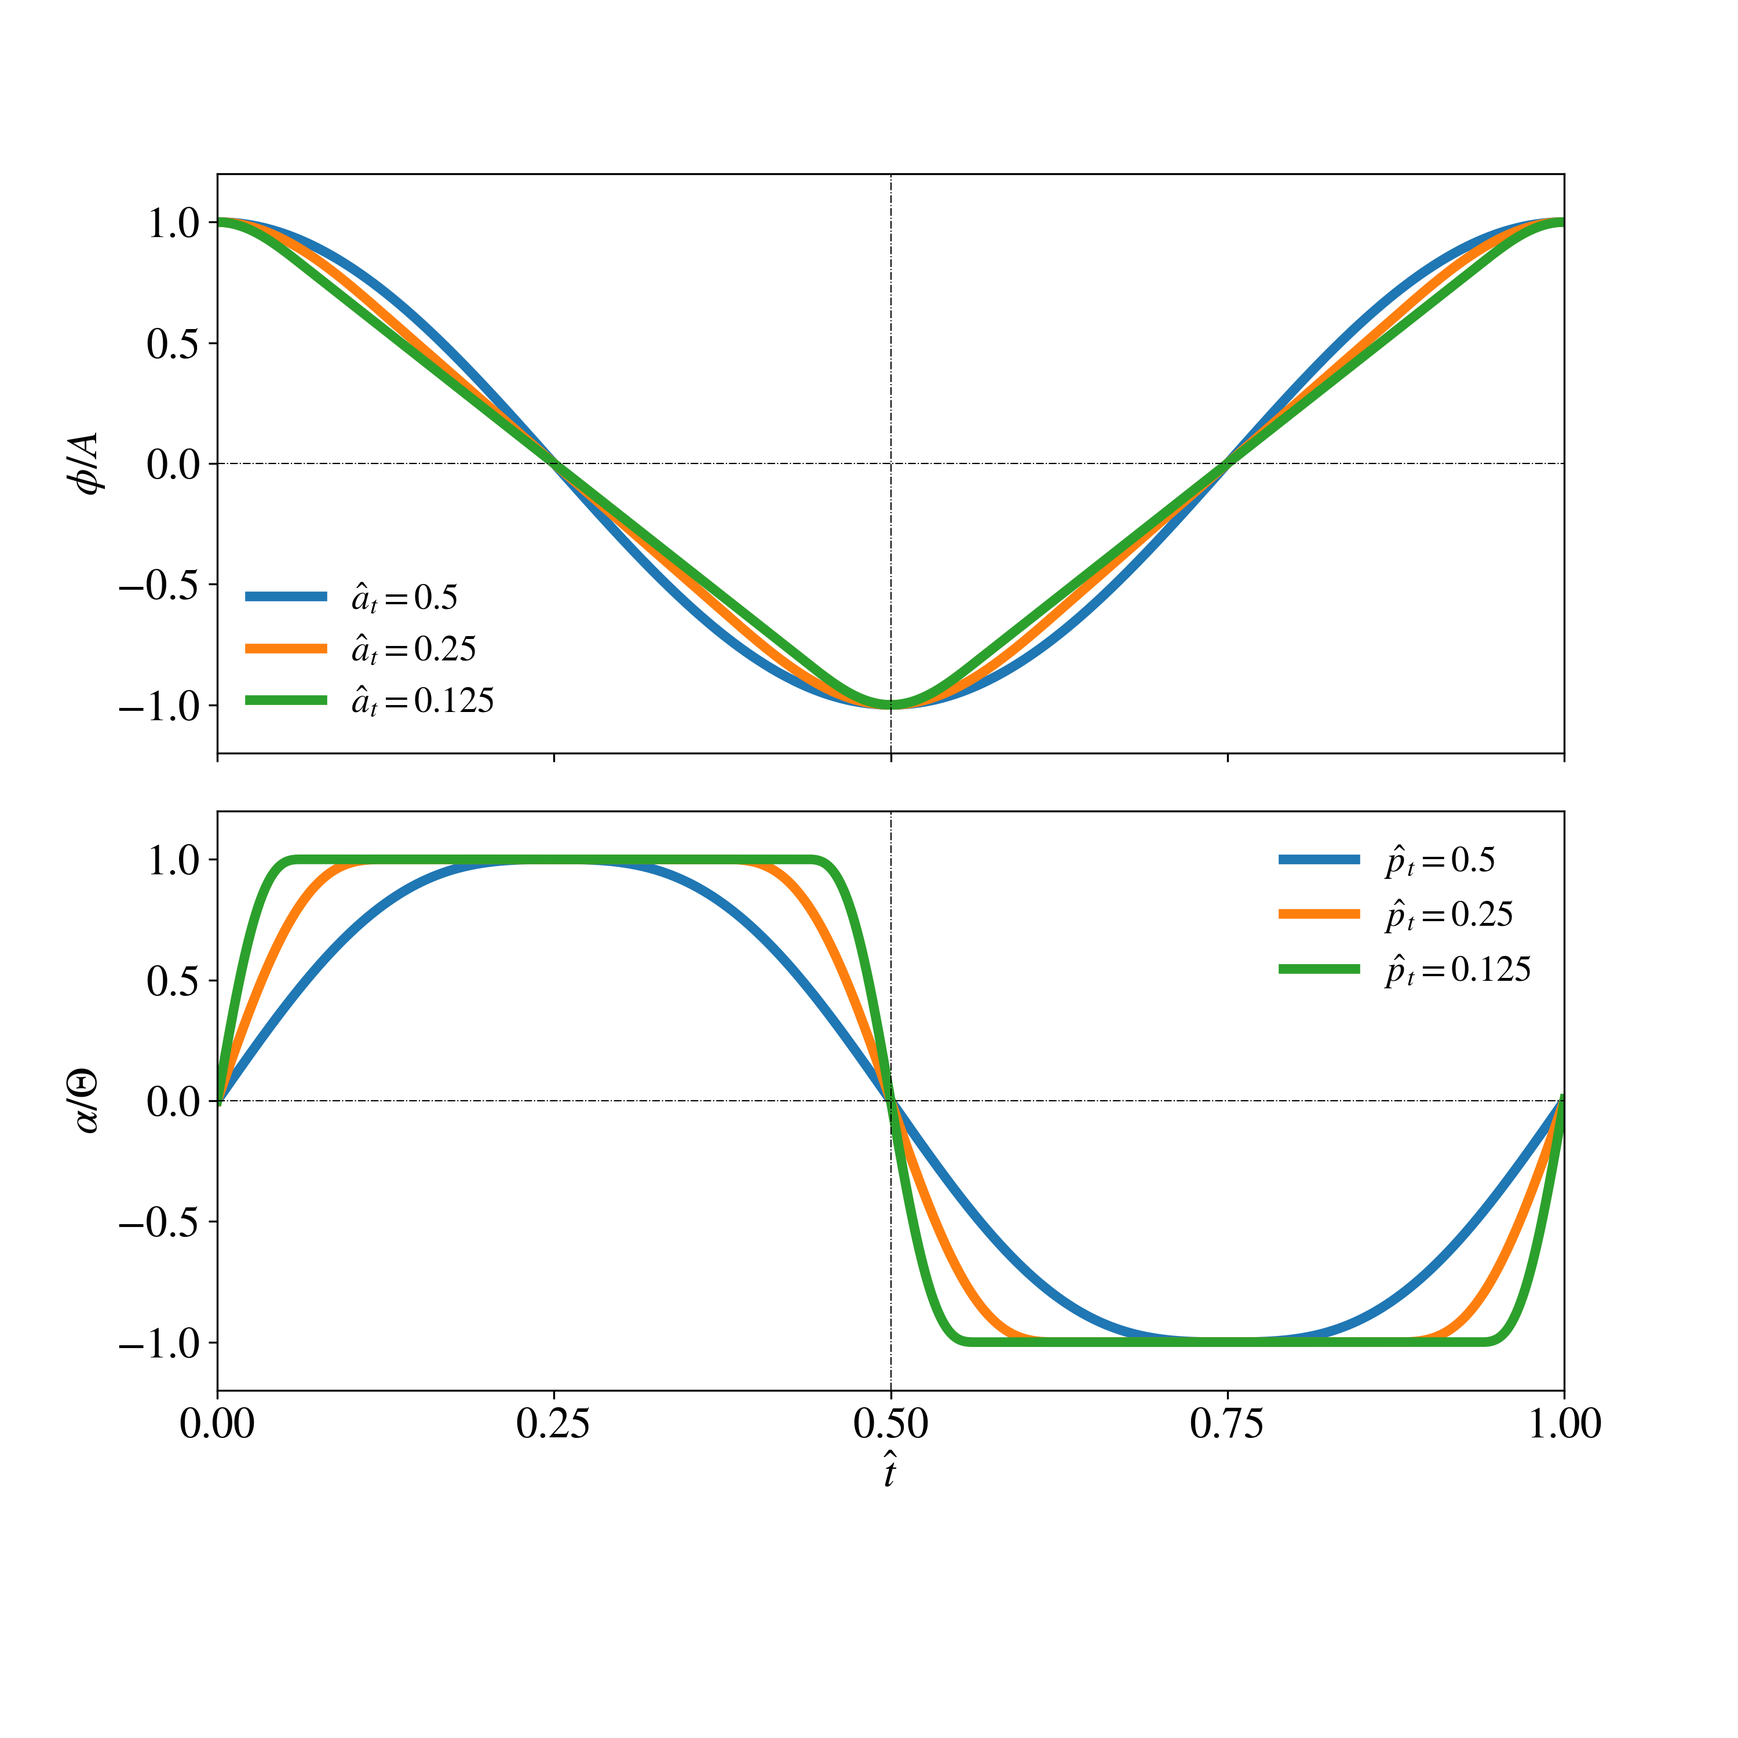
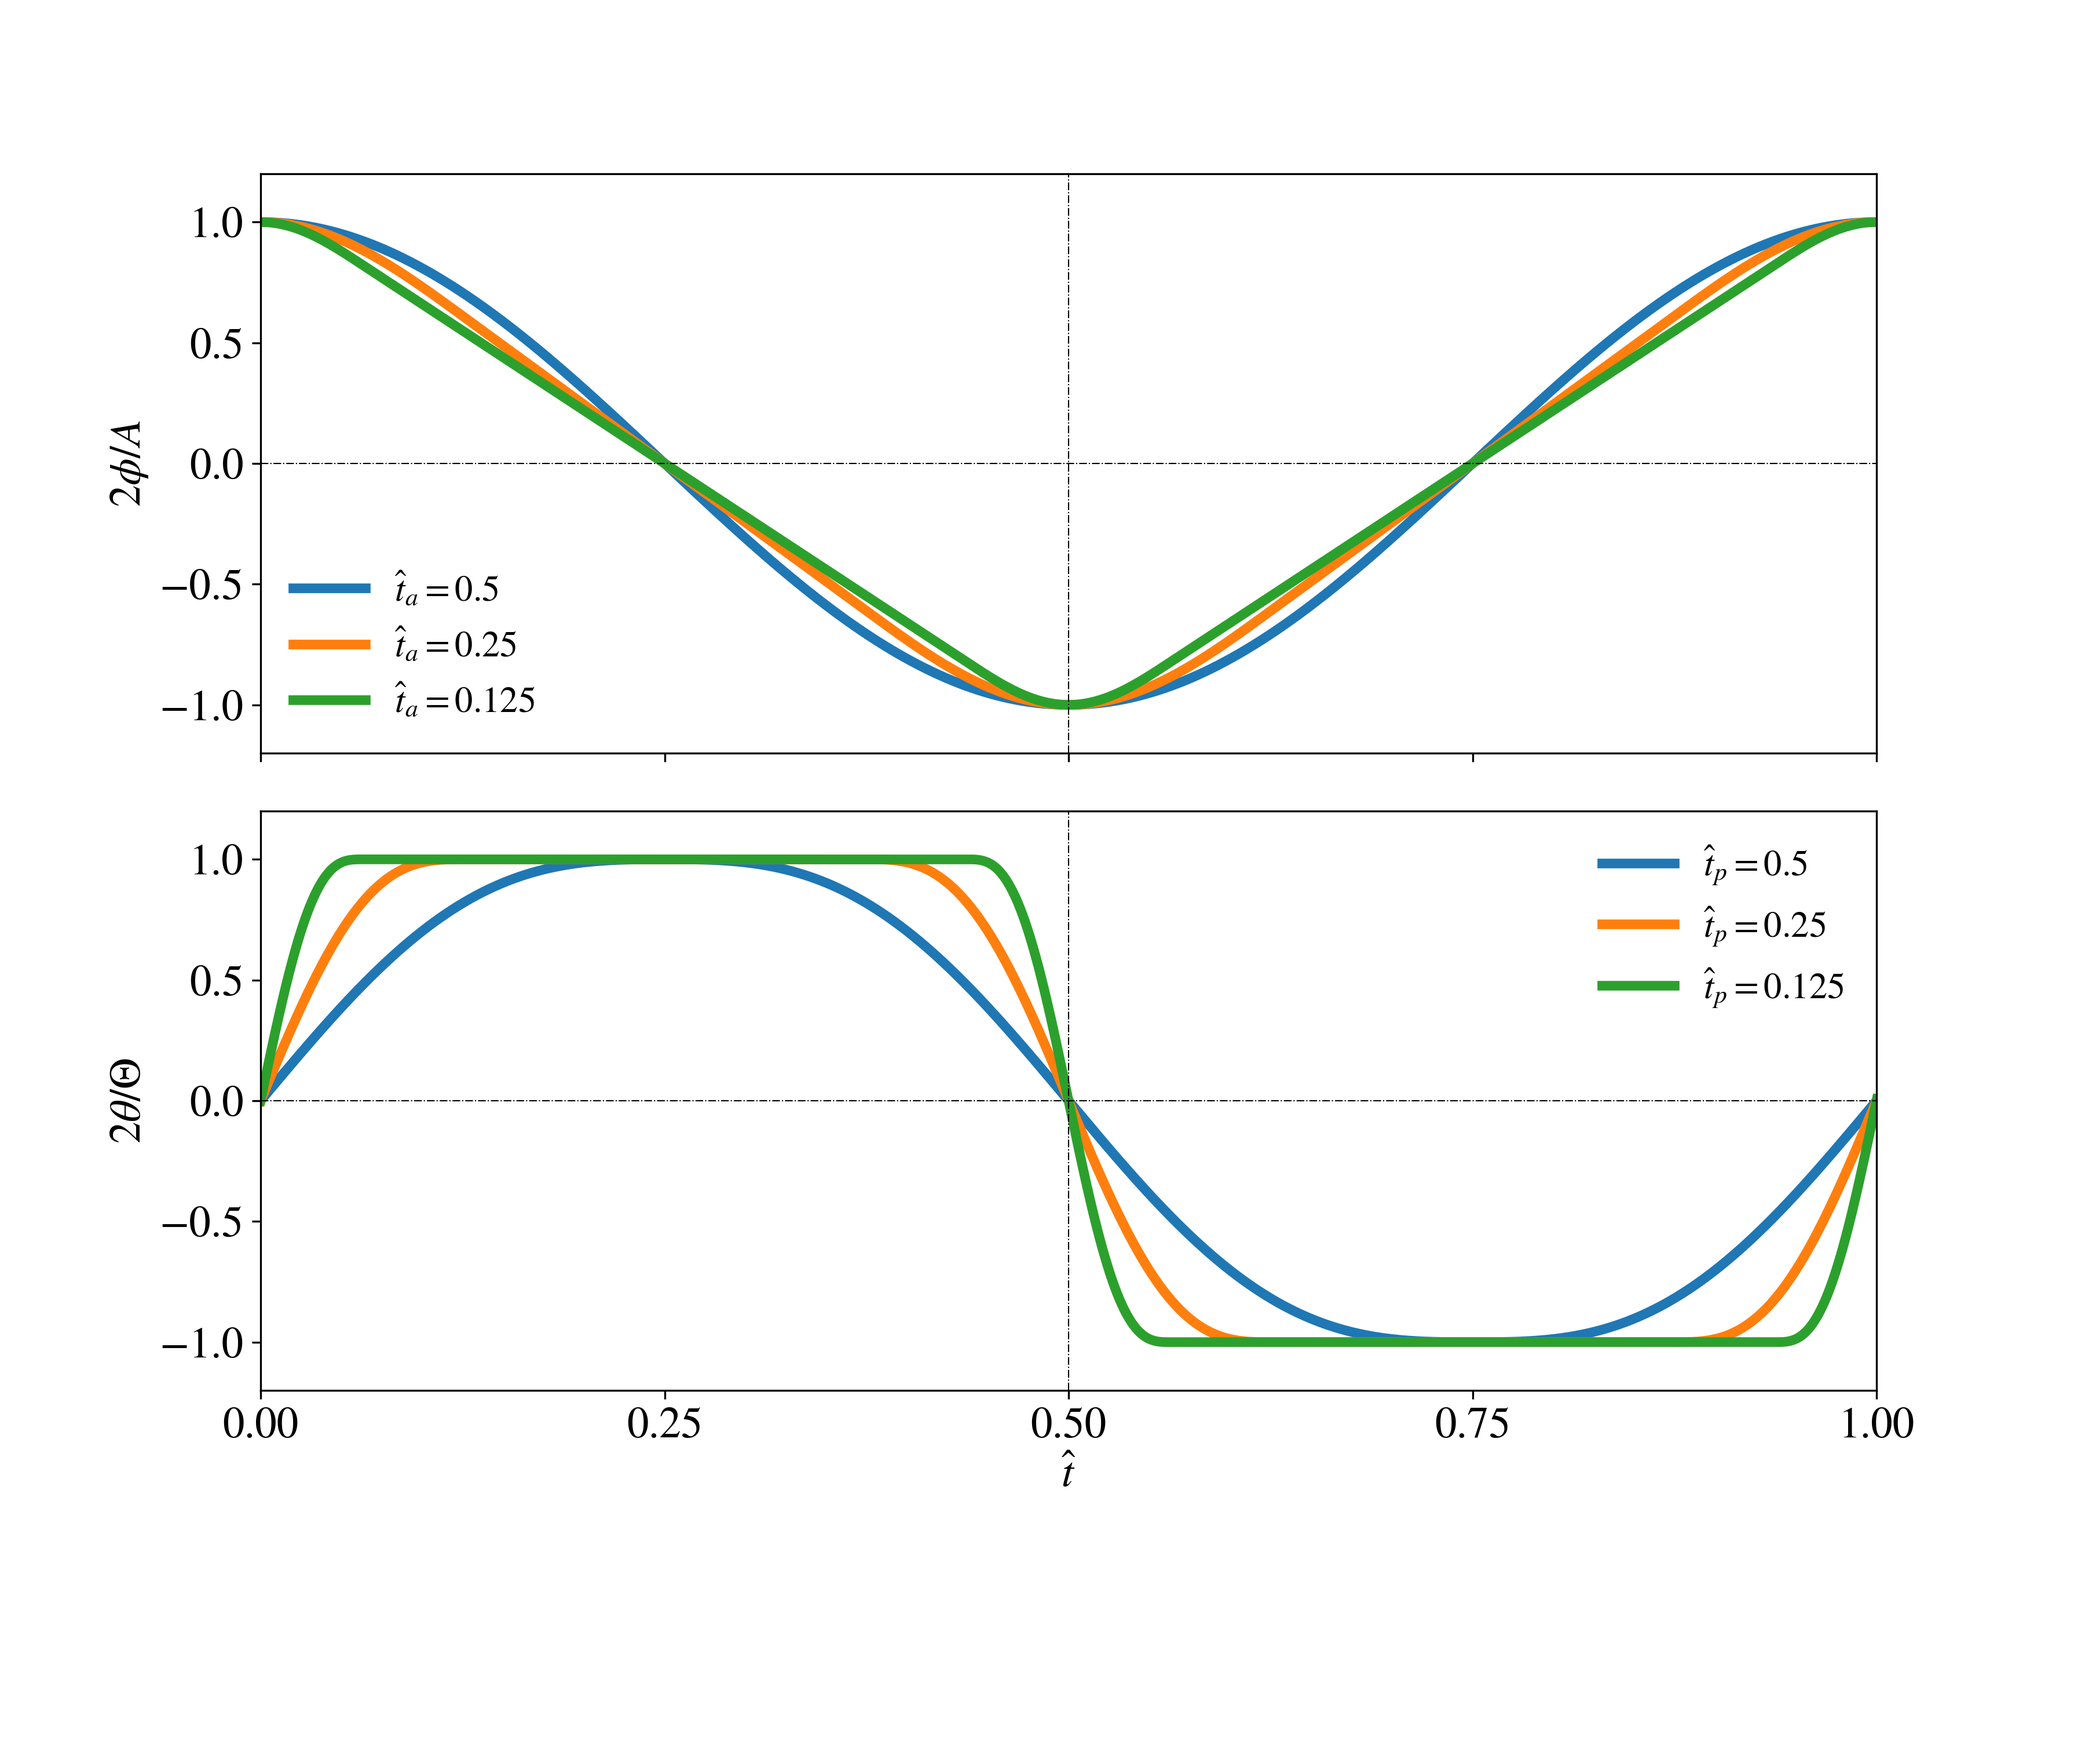
added amp effect AR figure

diff --git a/strokeAmp_effect_fw_figures/figure_transient_AR/tplotting_functions.py b/strokeAmp_effect_fw_figures/figure_transient_AR/tplotting_functions.py
@@ -1,0 +1,158 @@
+"""plotting functions for mesh and convergence figures"""
+
+import csv
+import os
+
+import matplotlib.image as mpimg
+import matplotlib.patches as patches
+import matplotlib.path as path
+import matplotlib.pyplot as plt
+import numpy as np
+from scipy.interpolate import UnivariateSpline
+
+
+def read_cfd_data(kinematics_file, cfd_data_file):
+    """read cfd results force coefficients data"""
+    kinematics_arr = []
+    with open(kinematics_file) as csv_file:
+        csv_reader = csv.reader(csv_file, delimiter='(')
+        line_count = 0
+
+        for row in csv_reader:
+            if line_count <= 1:
+                line_count += 1
+            elif row[0] == ')':
+                line_count += 1
+            else:
+                t_datai = row[1]
+                # print(row)
+                rot_datai0 = row[4].split()[0]
+                kinematics_arr.append([
+                    float(t_datai),
+                    float(rot_datai0) * np.pi / 180,
+                ])
+                line_count += 1
+
+        print(f'Processed {line_count} lines in {kinematics_file}')
+
+    kinematics_arr = np.array(kinematics_arr)
+    spl = UnivariateSpline(kinematics_arr[:, 0], kinematics_arr[:, 1], s=0)
+
+    cf_array = []
+    with open(cfd_data_file) as csv_file:
+        csv_reader = csv.reader(csv_file, delimiter='\t')
+        line_count = 0
+
+        for row in csv_reader:
+            if line_count <= 14:
+                line_count += 1
+            else:
+                ti = float(row[0])
+                phii = spl(ti)
+                dphii = -1.0 * spl.derivatives(ti)[1]
+                cli = float(row[3])
+                cdi = np.sign(dphii) * (np.sin(phii) * float(row[2]) +
+                                        np.cos(phii) * float(row[1]))
+                csi = np.cos(phii) * float(row[2]) - np.sin(phii) * float(
+                    row[1])
+                cf_array.append([ti, cli, cdi, csi])
+                line_count += 1
+
+        print(f'Processed {line_count} lines in {cfd_data_file}')
+
+    cf_array = np.array(cf_array)
+    return cf_array
+
+
+def cf_plotter(data_array, legends, time_to_plot, show_range, image_out_path,
+               cycle_time, plot_mode):
+    """
+    function to plot cfd force coefficients results
+    """
+    plt.rcParams.update({
+        # "text.usetex": True,
+        'mathtext.fontset': 'stix',
+        'font.family': 'STIXGeneral',
+        'font.size': 18,
+        'figure.figsize': (12, 10),
+        'lines.linewidth': 3.0,
+        'lines.markersize': 0.1,
+        'lines.markerfacecolor': 'white',
+        'figure.dpi': 300,
+        'figure.subplot.left': 0.125,
+        'figure.subplot.right': 0.9,
+        'figure.subplot.top': 0.9,
+        'figure.subplot.bottom': 0.1,
+        'figure.subplot.wspace': 0.1,
+        'figure.subplot.hspace': 0.1,
+    })
+    legendx = 0.5
+    legendy = 1.15
+
+    cf_array = np.array(data_array)
+    range_cl = show_range[0]
+    range_cd = show_range[1]
+
+    fig, axs = plt.subplots(2, 1)
+    mcl_arr = []
+    mcd_arr = []
+    if plot_mode == 'against_t':
+        for i in range(len(legends)):
+            axs[0].plot(cf_array[i][:, 0] / cycle_time,
+                        cf_array[i][:, 1],
+                        label=legends[i])
+            axs[1].plot(cf_array[i][:, 0] / cycle_time,
+                        cf_array[i][:, 2],
+                        label=legends[i])
+
+            cl_spl = UnivariateSpline(cf_array[i][:, 0],
+                                      cf_array[i][:, 1],
+                                      s=0)
+            mcl = cl_spl.integral(time_to_plot[0], time_to_plot[1])
+
+            cd_spl = UnivariateSpline(cf_array[i][:, 0],
+                                      cf_array[i][:, 2],
+                                      s=0)
+            mcd = cd_spl.integral(time_to_plot[0], time_to_plot[1])
+
+            mcl_arr.append(mcl)
+            mcd_arr.append(mcd)
+
+            with open('meancf_convergence.dat', 'w') as f:
+                for item, cf_lgd in zip(mcl_arr, legends):
+                    f.write("%s:\n" % cf_lgd)
+                    f.write("mcl = %s\n" % '{0:.8g}'.format(item))
+                for item, ref_lgd in zip(mcd_arr, legends):
+                    f.write("%s:\n" % ref_lgd)
+                    f.write("mcd = %s\n" % '{0:.8g}'.format(item))
+
+        if time_to_plot != 'all':
+            axs[0].set_xlim(time_to_plot)
+            axs[1].set_xlim(time_to_plot)
+        if range_cl != 'all':
+            axs[0].set_ylim(range_cl)
+            axs[1].set_ylim(range_cd)
+
+        for ax in axs:
+            ax.axhline(y=0, color='k', linestyle='-.', linewidth=0.5)
+            ax.axvline(x=4.5, color='k', linestyle='-.', linewidth=0.5)
+            ax.set_xlabel(r'$\^t$')
+
+        axs[0].set_ylabel(r'$C_L$')
+        axs[1].set_ylabel(r'$C_D$')
+
+        axs[0].label_outer()
+        axs[1].label_outer()
+
+        axs[0].legend(loc='upper center',
+                      bbox_to_anchor=(legendx, legendy),
+                      ncol=len(legends),
+                      fontsize='small',
+                      frameon=False)
+
+    title = 'transient force AR'
+    out_image_file = os.path.join(image_out_path, title + '.png')
+    fig.savefig(out_image_file)
+    # plt.show()
+
+    return fig

diff --git a/strokeAmp_effect_fw_figures/figure_transient_AR/transient_figure.py b/strokeAmp_effect_fw_figures/figure_transient_AR/transient_figure.py
@@ -1,0 +1,52 @@
+"""script for mesh and convergence figure plots"""
+
+import os
+
+from tplotting_functions import cf_plotter, read_cfd_data
+
+#-------------input plot control----------
+kinematics_file = 'kinematics.dat'
+cfd_data_list = [
+    'ar3.0_ofs0.0_r1h0.5__Re1000.0_pt0.25',
+    'ar4.5_ofs0.0_r1h0.5__Re1000.0_pt0.25',
+    'ar6.0_ofs0.0_r1h0.5__Re1000.0_pt0.25',
+]
+#-----------------------------------------
+legends = [
+    r'AR = 3.0',
+    r'AR = 4.5',
+    r'AR = 6.0',
+]
+#-----------------------------------------
+time_to_plot = 'all'
+coeffs_show_range = 'all'
+time_to_plot = [4.0, 5.0]
+show_range_cl = [-1.2, 3.0]
+show_range_cd = [-1.2, 3.0]
+cycle_time = 1.0
+#---------------------------------------
+show_range = [show_range_cl, show_range_cd]
+#-----------------------------------------
+cwd = os.getcwd()
+kinematics_dir = os.path.join(
+    os.path.dirname(os.path.dirname(os.path.dirname(cwd))),
+    'geometry_effect_fw_data/1_kinematic_cases')
+data_dir = os.path.join(os.path.dirname(os.path.dirname(os.path.dirname(cwd))),
+                        'geometry_effect_fw_data/5_SIM_RESULTS')
+image_out_path = cwd
+#-----------------------------------------
+kinematics_data = os.path.join(kinematics_dir, kinematics_file)
+CF_file_names = [f.name for f in os.scandir(data_dir) if f.is_file()]
+cf_array = []
+for cfi in cfd_data_list:
+    for CF_name in CF_file_names:
+        if CF_name.startswith(cfi):
+            cfd_datai = os.path.join(data_dir, CF_name)
+            cf_arrayi = read_cfd_data(kinematics_data, cfd_datai)
+            cf_array.append(cf_arrayi)
+
+data_array = cf_array
+#---------------------------------------
+
+cf_plotter(data_array, legends, time_to_plot, show_range, image_out_path,
+           cycle_time, 'against_t')

diff --git a/strokeAmp_effect_fw_figures/figure_kinematics/kplotting_functions.py b/strokeAmp_effect_fw_figures/figure_kinematics/kplotting_functions.py
@@ -87,7 +87,7 @@ def k_plotter(karray_all, time_scale, time_to_plot, show_range, image_out_path,
         'mathtext.fontset': 'stix',
         'font.family': 'STIXGeneral',
         'font.size': 18,
-        'figure.figsize': (10, 10),
+        'figure.figsize': (12, 10),
         'lines.linewidth': 4.0,
         'lines.markersize': 4,
         'lines.markerfacecolor': 'white',
@@ -102,9 +102,9 @@ def k_plotter(karray_all, time_scale, time_to_plot, show_range, image_out_path,
 
     fig1, ax = plt.subplots(2, 1)
 
-    labels = [r'$\phi/A$', r'$\alpha/\Theta$']
-    legendax1 = [r'$\^a_t = 0.5$', r'$\^a_t = 0.25$', r'$\^a_t = 0.125$']
-    legendax2 = [r'$\^p_t = 0.5$', r'$\^p_t = 0.25$', r'$\^p_t = 0.125$']
+    labels = [r'$2\phi/A$', r'$2\theta/\Theta$']
+    legendax1 = [r'$\^t_a = 0.5$', r'$\^t_a = 0.25$', r'$\^t_a = 0.125$']
+    legendax2 = [r'$\^t_p = 0.5$', r'$\^t_p = 0.25$', r'$\^t_p = 0.125$']
 
     for kine_array, lgd1, lgd2 in zip(karray_all, legendax1, legendax2):
         ax[0].plot(kine_array[:, 0] / time_scale, kine_array[:, 1], label=lgd1)

diff --git a/strokeAmp_effect_fw_figures/figure_geometry/gplotting_functions.py b/strokeAmp_effect_fw_figures/figure_geometry/gplotting_functions.py
@@ -124,12 +124,12 @@ def g_plotter_ofs(data_array, legends, x_range, y_range, image_out_path):
         # "text.usetex": True,
         'mathtext.fontset': 'stix',
         'font.family': 'STIXGeneral',
-        'font.size': 14,
-        'figure.figsize': (10, 6),
-        'lines.linewidth': 2,
+        'font.size': 18,
+        'figure.figsize': (14, 6),
+        'lines.linewidth': 4,
         'lines.markersize': 0.1,
         'lines.markerfacecolor': 'white',
-        'figure.dpi': 200,
+        'figure.dpi': 300,
     })
     data_array = np.array(data_array)
 
